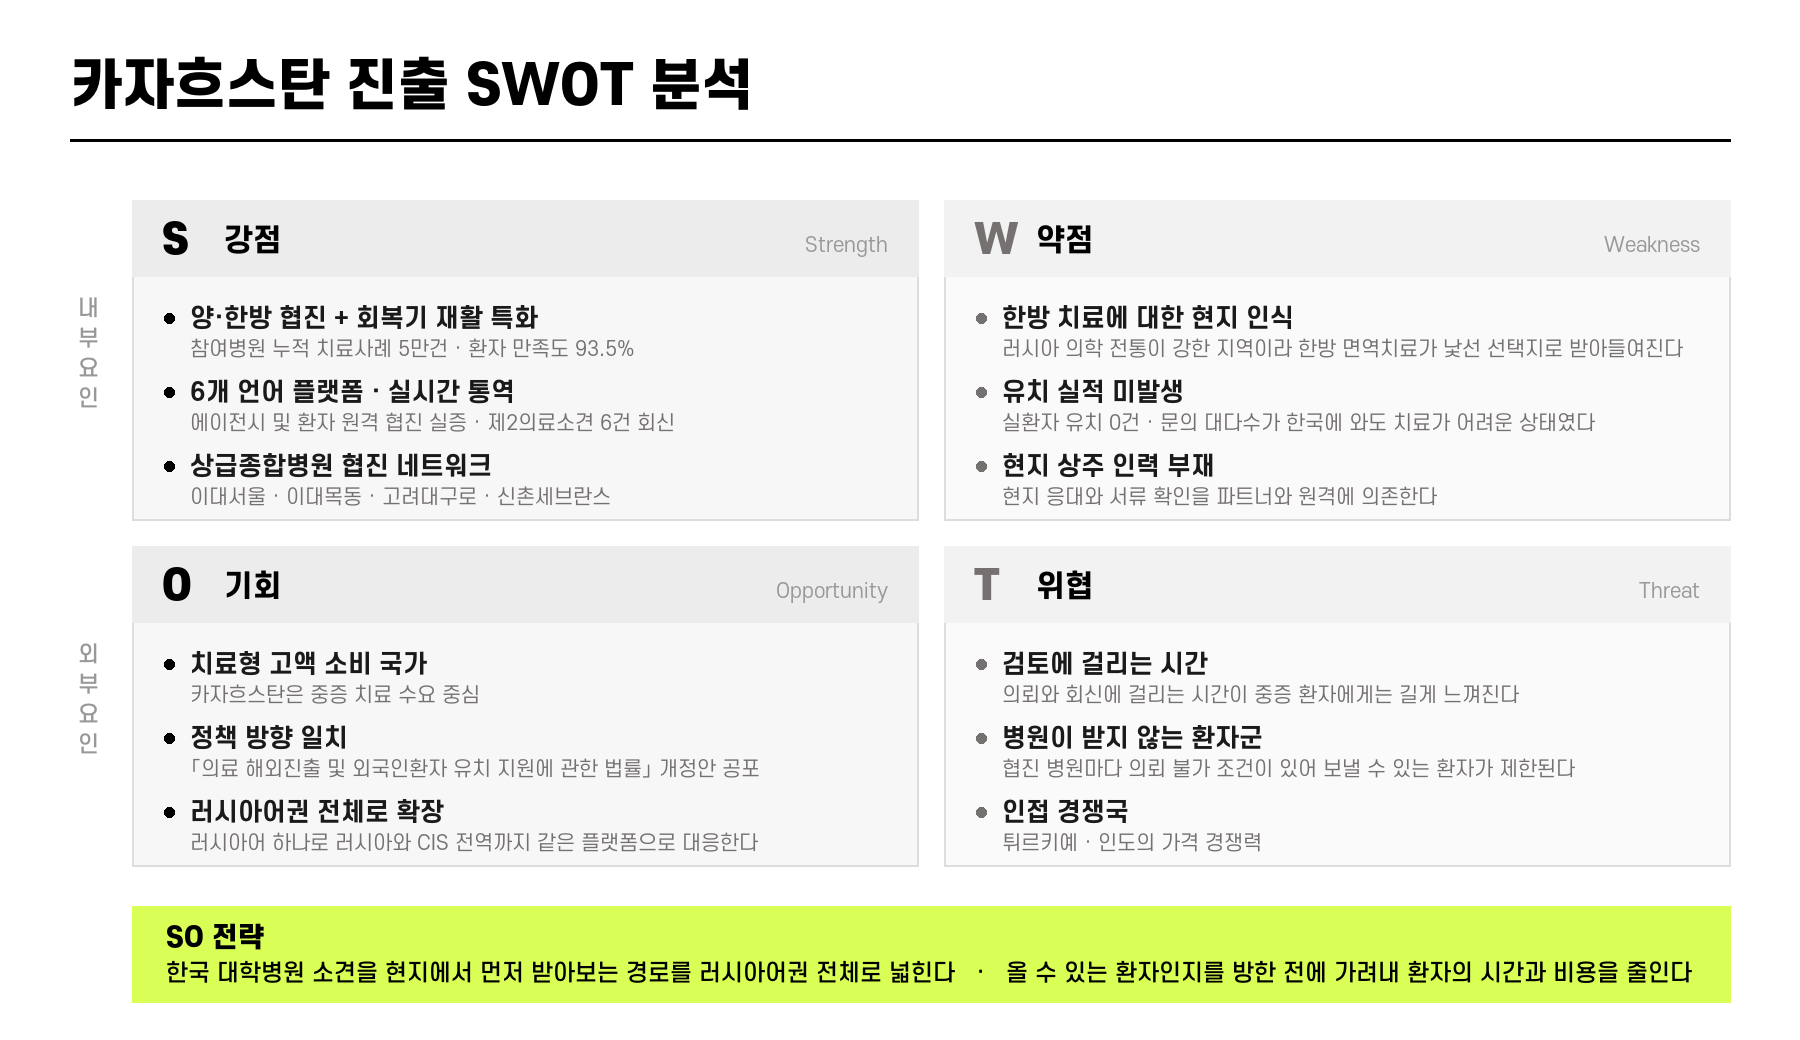
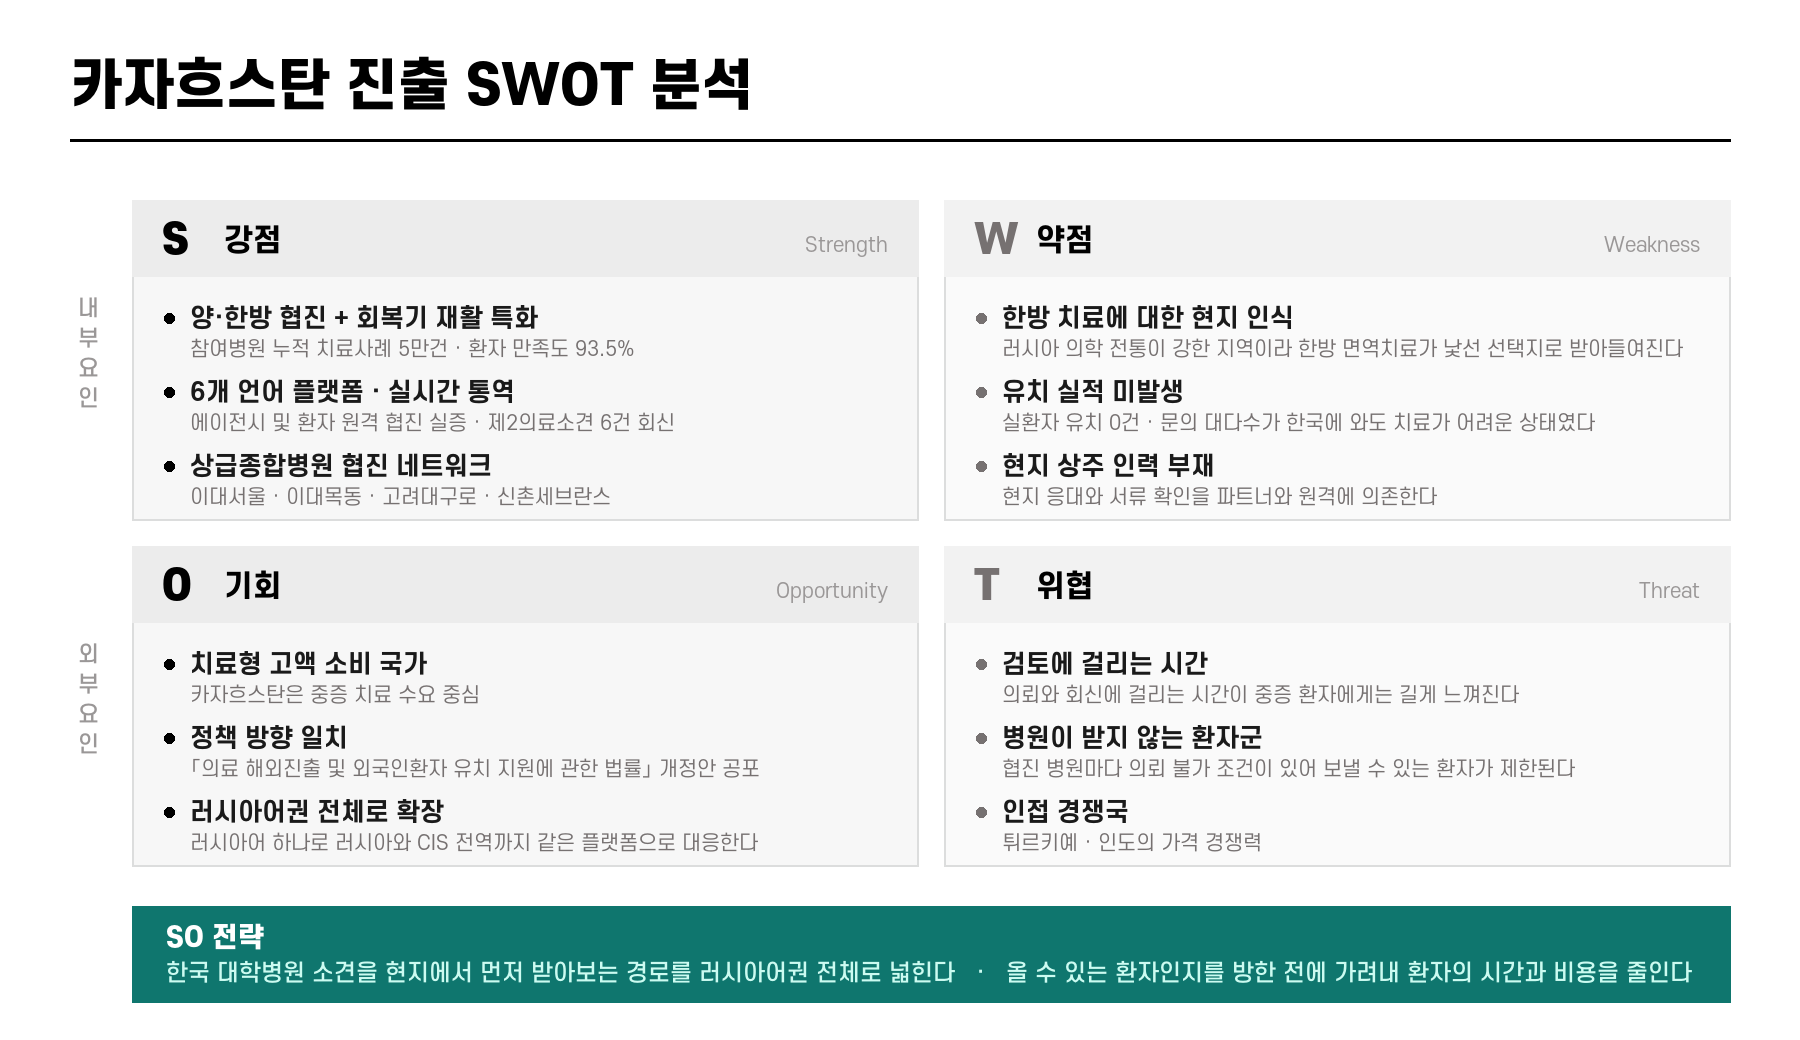
chore: 작업 자동 저장 (2026-08-20 14:21)

Changed region(s): [[0.0622, 0.8615, 0.9644, 0.9846]]

diff --git a/scripts/hwp/make_bm_image.py b/scripts/hwp/make_bm_image.py
@@ -1,7 +1,7 @@
 # -*- coding: utf-8 -*-
 """비즈니스모델 체계도 그림 — BeyondK 깔(docs/rules/PPT_STYLE.md) 기준.
 
-규격 : 흰 바탕 · 라임(#D9FE55)은 한 곳만(가운데 healwith 상자) · 에스코어 드림 글꼴.
+규격 : 흰 바탕 · 브랜드 색(teal-700 #0f766e)은 한 곳만(가운데 healwith 상자) · 에스코어 드림 글꼴.
 쓰는 곳 : 중간보고서 2부 「수익모델」 / 발표자료.
 내용 고치는 곳 : 01. 작업본/비즈니스모델_내용_편집용.txt
 
@@ -23,7 +23,9 @@ MUTED = (0x9A, 0x97, 0x97)
 LINE = (0xDC, 0xDD, 0xDD)
 PANEL = (0xF7, 0xF7, 0xF7)
 HEAD = (0xEC, 0xEC, 0xEC)
-LIME = (0xD9, 0xFE, 0x55)
+BRAND = (0x0F, 0x76, 0x6E)     # teal-700 · 우리 브랜드 색
+BRAND_D = (0x11, 0x5E, 0x59)   # teal-800 (테두리)
+PALE = (0xCC, 0xFB, 0xF1)      # teal-100 (짙은 바탕 위 작은 글씨)
 
 FDIR = r'C:\Users\user\AppData\Local\Microsoft\Windows\Fonts'
 
@@ -42,13 +44,13 @@ def mid(x, y, text, font, fill):
 
 
 def card(x, y, w, h, title, sub=None, strong=False):
-    """상자 하나. strong 이면 라임 바탕(가운데 healwith 만)."""
-    d.rectangle([x, y, x + w, y + h], fill=LIME if strong else PANEL,
-                outline=BLACK if strong else LINE, width=3 if strong else 2)
+    """상자 하나. strong 이면 브랜드 색 바탕(가운데 healwith 만)."""
+    d.rectangle([x, y, x + w, y + h], fill=BRAND if strong else PANEL,
+                outline=BRAND_D if strong else LINE, width=3 if strong else 2)
     cx = x + w / 2
     if sub:
-        mid(cx, y + h / 2 - 34, title, f(7, 28), BLACK)
-        mid(cx, y + h / 2 + 8, sub, f(4, 21), INK if strong else BODY)
+        mid(cx, y + h / 2 - 34, title, f(7, 28), 'white' if strong else BLACK)
+        mid(cx, y + h / 2 + 8, sub, f(4, 21), PALE if strong else BODY)
     else:
         mid(cx, y + h / 2 - 16, title, f(7, 28), BLACK)
 

diff --git a/scripts/ppt/make_swot_image.py b/scripts/ppt/make_swot_image.py
@@ -1,7 +1,7 @@
 # -*- coding: utf-8 -*-
 """SWOT 분석 그림 — BeyondK 깔(docs/rules/PPT_STYLE.md) 기준.
 
-규격 : 흰 바탕 · 라임(#D9FE55)은 한 곳만 · 에스코어 드림 글꼴.
+규격 : 흰 바탕 · 브랜드 색(teal-700 #0f766e)은 한 곳만 · 에스코어 드림 글꼴.
 쓰는 곳 : 중간보고서 2부 「수익모델」 / 발표자료 SWOT 장.
 
 쓰는 법:  python scripts/ppt/make_swot_image.py <나올.png>
@@ -19,7 +19,7 @@ MUTED = (0x9A, 0x97, 0x97)
 LINE = (0xDC, 0xDD, 0xDD)
 PANEL = (0xF7, 0xF7, 0xF7)
 PANEL2 = (0xFA, 0xFA, 0xFA)
-LIME = (0xD9, 0xFE, 0x55)
+BRAND = (0x0F, 0x76, 0x6E)      # teal-700 · 우리 브랜드 색
 
 FDIR = r'C:\Users\user\AppData\Local\Microsoft\Windows\Fonts'
 
@@ -95,14 +95,14 @@ def side(y, text):
 side(Y0 + 96, '내부요인')
 side(Y0 + CH + GAP + 96, '외부요인')
 
-# ─────────────────────────── 전략 띠 (라임은 여기 한 곳만)
+# ─────────────────────────── 전략 띠 (브랜드 색은 여기 한 곳만)
 BY = Y0 + (CH + GAP) * 2 + 14
-d.rectangle([X0, BY, W - 70, BY + 96], fill=LIME)
+d.rectangle([X0, BY, W - 70, BY + 96], fill=BRAND)
 d.text((X0 + 34, BY + 16), 'SO 전략',
-       font=f(8, 27), fill=BLACK)
+       font=f(8, 27), fill='white')
 d.text((X0 + 34, BY + 54),
        '한국 대학병원 소견을 현지에서 먼저 받아보는 경로를 러시아어권 전체로 넓힌다   ·   올 수 있는 환자인지를 방한 전에 가려내 환자의 시간과 비용을 줄인다',
-       font=f(5, 23), fill=BLACK)
+       font=f(5, 23), fill=(0xCC, 0xFB, 0xF1))
 
 img.save(OUT)
 print('만듦 :', OUT, img.size)
